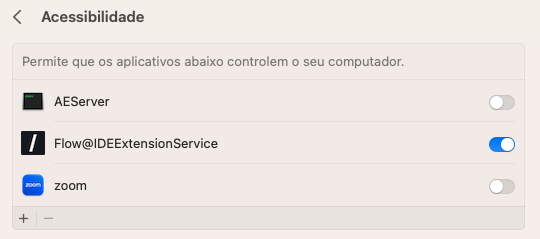
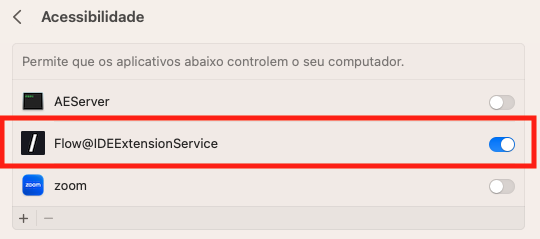
Update readme

Changed region(s): [[0.0, 0.4686, 1.0, 0.7322]]

diff --git a/flow@ideXcode.md b/flow@ideXcode.md
@@ -4,15 +4,27 @@ If you have already installed Copilot for Xcode, you must uninstall it before in
 
 ## Step 2: Initial Settings
 
-1 - Go to your computer settings and click on **Security & Privacy**. Give Flow@IDE permissions for the Accessibility API.
+1 - To perform the initial settings, on the application's main screen there are two buttons that will take you to the macOS settings. The first one will take you to the accessibility setting.
+
+<img alt="Accessibility API" src="images/AccessibilityButton.png" width="500px">
+
+Then you must enable the Flow@IDEExtensionService.
 
 <img alt="Accessibility API" src="images/Accessibility.png" width="500px">
 
-2 - Still in **Security & Privacy**, in extensions, add Flow@IDE as the Xcode code editor.
+2 - The second button will take you to Xcode extensions setting.
+
+<img alt="Accessibility API" src="images/ExtensionsButton.png" width="500px">
+
+Select the cell containing the text **Xcode Code Editor**.
+
+<img alt="Accessibility API" src="images/ExtensionsScreen.png" width="500px">
+
+And enable the extension.
 
 <img alt="Accessibility API" src="images/Extensions.png" width="500px">
 
-## Step 3: Open Flow@IDE
+## Step 3: Authenticate the Flow@IDE
 
 Open the Flow@IDE application.
 
